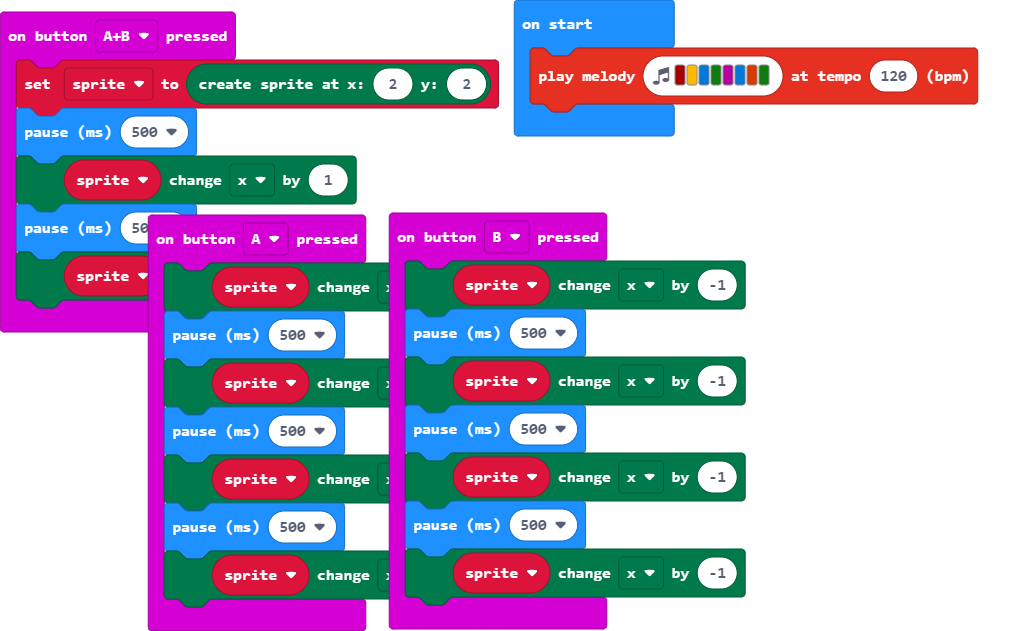
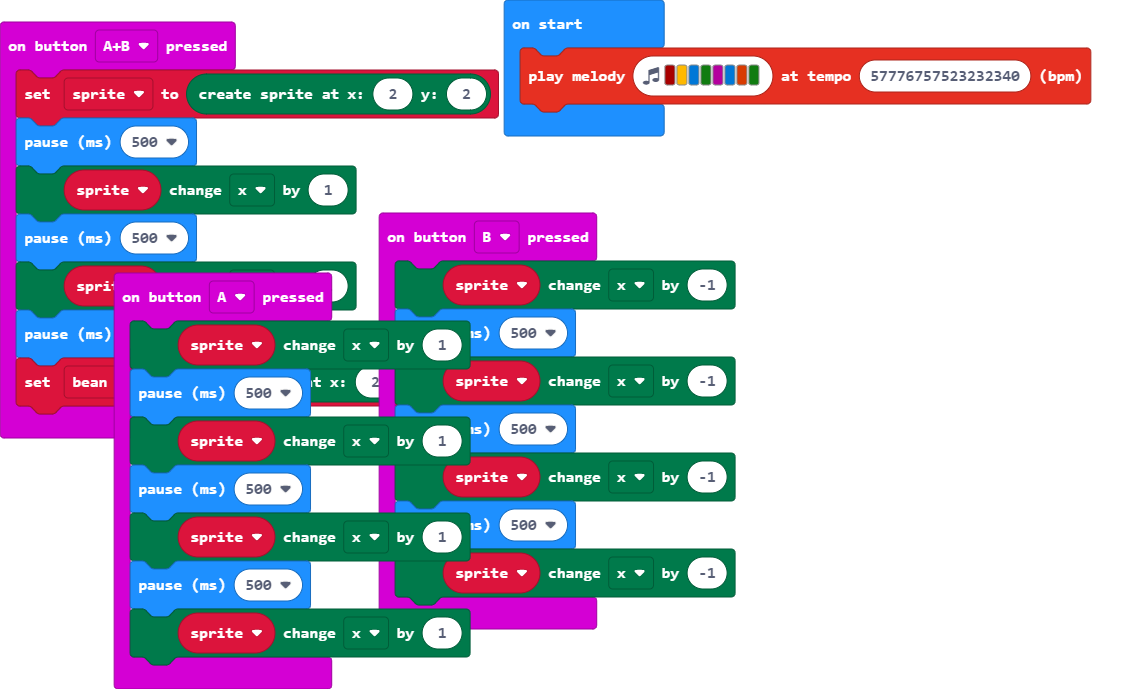
Update pxt.json, main.blocks, main.ts, main.py

diff --git a/main.py b/main.py
@@ -1,4 +1,4 @@
-input.onButtonPressed(Button.A, function () {
+def on_button_pressed_a():
     sprite.change(LedSpriteProperty.X, 1)
     basic.pause(500)
     sprite.change(LedSpriteProperty.X, 1)
@@ -6,17 +6,18 @@ input.onButtonPressed(Button.A, function () {
     sprite.change(LedSpriteProperty.X, 1)
     basic.pause(500)
     sprite.change(LedSpriteProperty.X, 1)
-})
-input.onButtonPressed(Button.AB, function () {
-    sprite = game.createSprite(2, 2)
+input.on_button_pressed(Button.A, on_button_pressed_a)
+
+def on_button_pressed_ab():
+    global sprite
+    sprite = game.create_sprite(2, 2)
     basic.pause(500)
     sprite.change(LedSpriteProperty.X, 1)
     basic.pause(500)
     sprite.change(LedSpriteProperty.X, 1)
-    basic.pause(10000)
-    bean = game.createSprite(2, 3)
-})
-input.onButtonPressed(Button.B, function () {
+input.on_button_pressed(Button.AB, on_button_pressed_ab)
+
+def on_button_pressed_b():
     sprite.change(LedSpriteProperty.X, -1)
     basic.pause(500)
     sprite.change(LedSpriteProperty.X, -1)
@@ -24,7 +25,7 @@ input.onButtonPressed(Button.B, function () {
     sprite.change(LedSpriteProperty.X, -1)
     basic.pause(500)
     sprite.change(LedSpriteProperty.X, -1)
-})
-let bean: game.LedSprite = null
-let sprite: game.LedSprite = null
-music.playMelody("C5 A E G C E B G ", 57776757523232340)
+input.on_button_pressed(Button.B, on_button_pressed_b)
+
+sprite: game.LedSprite = None
+music.play_melody("C5 A E G C E B G ", 57776757523232332)
